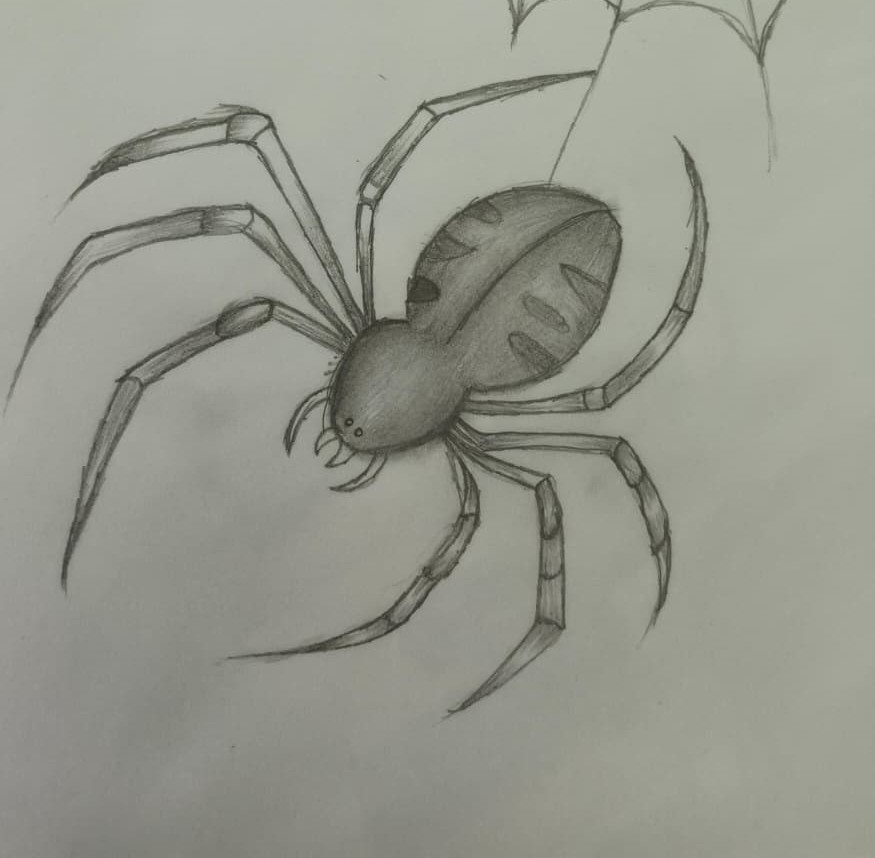
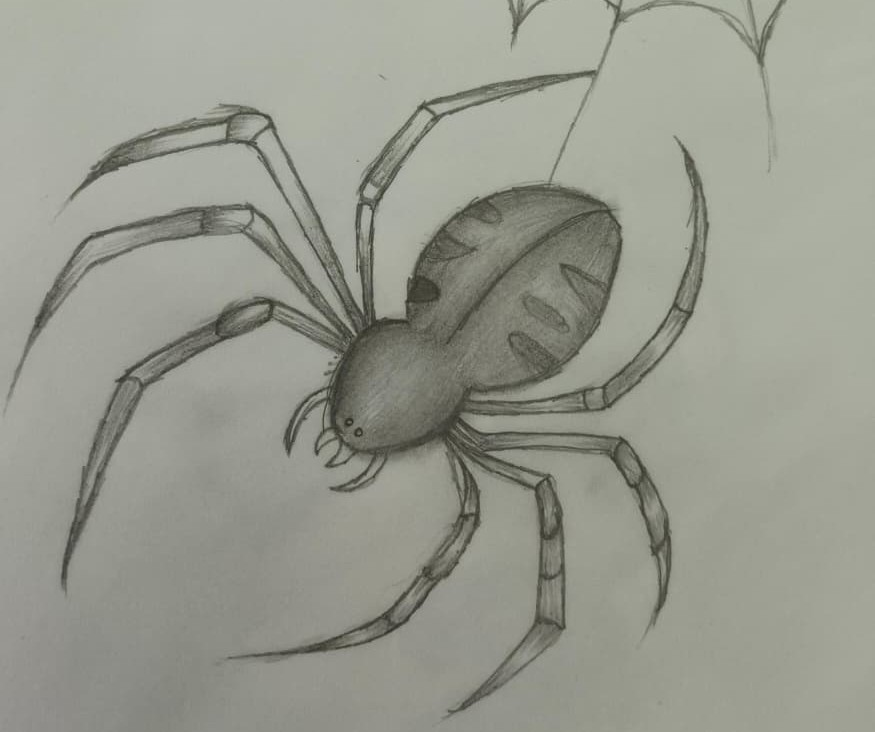
Rapikan galeri gambar

diff --git a/index.html b/index.html
@@ -116,7 +116,7 @@ Contact Me
         <div class="row">
           <div class="col-md-4">
             <div class="card">
-              <img src="img/laba.jpeg ..." />
+              <img src="img/laba.jpeg" />
               <div class="card-body">
                 <p class="card-text">This artwork showcases my ability to draw realistic spiders by emphasizing texture, symmetry, and precise shading to create a lifelike appearance.
               </div>
@@ -125,7 +125,7 @@ Contact Me
 
           <div class="col-md-4 mb-3">
             <div class="card">
-              <img src="img/telinga (1).jpeg..." />
+              <img src="img/telinga (1).jpeg" />
               <div class="card-body">
                 <p class="card-text">This artwork reflects my dedication to mastering realistic drawing by carefully capturing the structure, texture, and shadows of the human ear.
               </div>
@@ -143,7 +143,7 @@ Contact Me
 
          <div class="col-md-4 mb-3">
             <div class="card">
-              <img src="img/telinga (5).jpeg" alt="..." />
+              <img src="img/bibir.jpeg" alt="..." />
               <div class="card-body">
                 <p class="card-text">This artwork showcases a realistic lip sketch created using graphite pencils, emphasizing depth, texture, and smooth shading techniques.</p>
               </div>
@@ -152,9 +152,9 @@ Contact Me
 
           <div class="col-md-4 mb-3">
             <div class="card">
-              <img src="img/key5.jpg" card-img-top alt="..." />
+              <img src="img/duck.jpeg" card-img-top alt="..." />
               <div class="card-body">
-                <p class="card-text">Some quick example text to build on the card title and make up the bulk of the card's content.</p>
+                <p class="card-text">This pencil drawing showcases my ability to capture the natural form of a duck through detailed feather textures, balanced proportions, and realistic shading.</p>
               </div>
             </div>
           </div>
